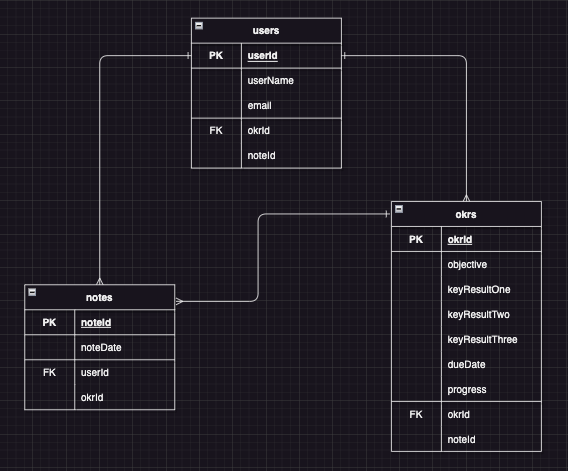
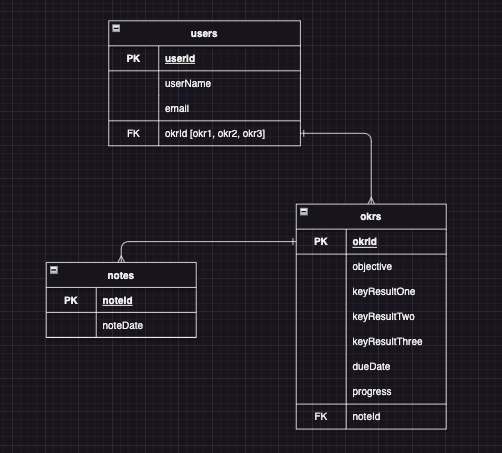
updated ERD & restful routing based on feedback

Changed region(s): [[0.2092, 0.0309, 0.9562, 0.9581], [0.0299, 0.1236, 0.4482, 0.8962], [0.9263, 0.9272, 0.9562, 0.9581]]

diff --git a/README.md b/README.md
@@ -42,28 +42,20 @@ It's a web application hosted on Heroku utilizing the Express framework for Node
 | HTTP METHOD | URL | CRUD | Response | Notes |
 | -------------------- | ------------- | ---- | -------- | ----- |
 | `full index of items`  |   |   |   |   |
-| GET | `/users` | Read (index) | Array of Users `{ [ user, user ] }` | retrieves the index list of all users | 
 | GET | `/okrs` | Read (index) | Array of OKRs `{ [ okr, okr ] }` | retrieves the index list of all OKRs |
 | GET | `/notes` | Read (index) | Array of Notes `{ [ note, note ] }` | retrieves the index list of all notes |
 | `individual items`  |   |   |   |   |
-| GET | `/users/:userId` | Read (show) | User Details | shows a specific user's details 
 | GET | `/okrs/:okrId` | Read (show) | OKR Details | shows a specific OKR's details |
 | `adding items to index`  |   |   |   |   |
 | GET  | `/oauth/google`  | Read (show) | oAuth Log-in  |  oAuth log-in to add a user with their Google credentials | 
 | GET  | `/oauth2callback`  | Read (show) | oAuth Failed Log-in |  existing user, but failed oAuth log-in |
 | POST | `/users` | Create | Add a User | add a user to database |
-| POST | `/okrs` | Create | Add an OKR | add an OKR to database|
-| POST | `/notes` | Create | Add a Note | add a note to database |
+| POST | `/users/okrs` | Create | Add an OKR | add an OKR to database |
+| POST | `/okrs/:okrId/notes` | Create | Add a Note | add a note to database |
 | `removing items from index`  |   |   |   |   |
-| DELETE | `/users` | Destroy | Delete a User | remove a user from database 
-| DELETE | `/okrs` | Destroy | Delete an OKR | remove an OKR from database |
-| DELETE | `/notes` | Destroy | Delete a Note | remove a note from database |
+| DELETE | `/okrs/:okrId` | Destroy | Delete an OKR | remove an OKR from database |
 | `updating items in index`  |   |   |   |   |
-| PUT | `/users/:userId` | Update | Update User | update a specific user's details | 
 | PUT | `/okrs/:okrId` | Update | Update OKR | update a specific OKR's details |
-| PUT | `/notes/:noteId` | Update | Update Note | update a specific note |
-| POST | `/notes/:noteId/okrs` | Create | Add an OKR to a Note | adds an OKR to a specific note | 
-| DELETE | `/okrs/:okrId/notes` | Destroy | Remove a Note from an OKR | removes a Note from a specific OKR | 
 
 
 ---
